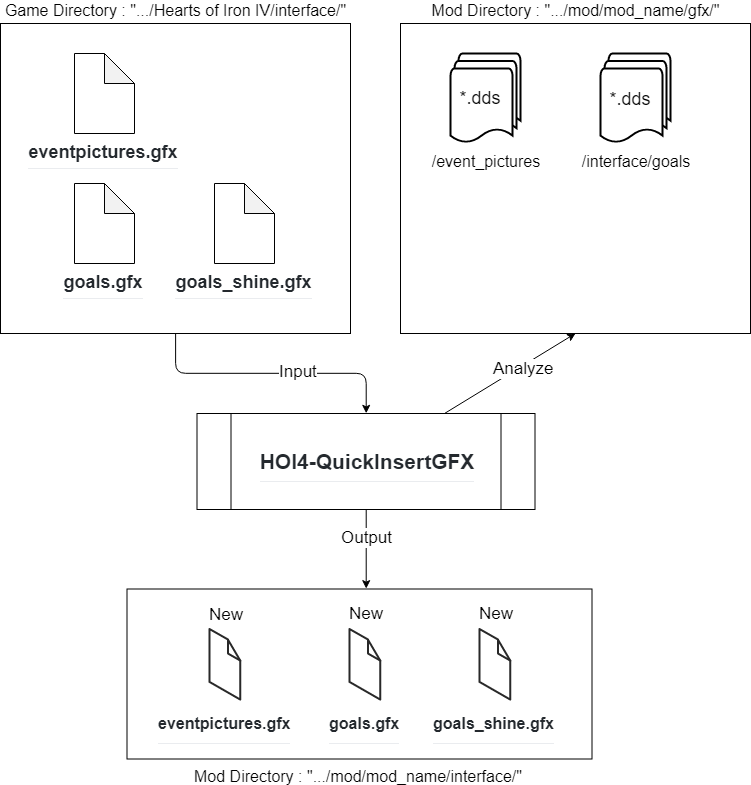
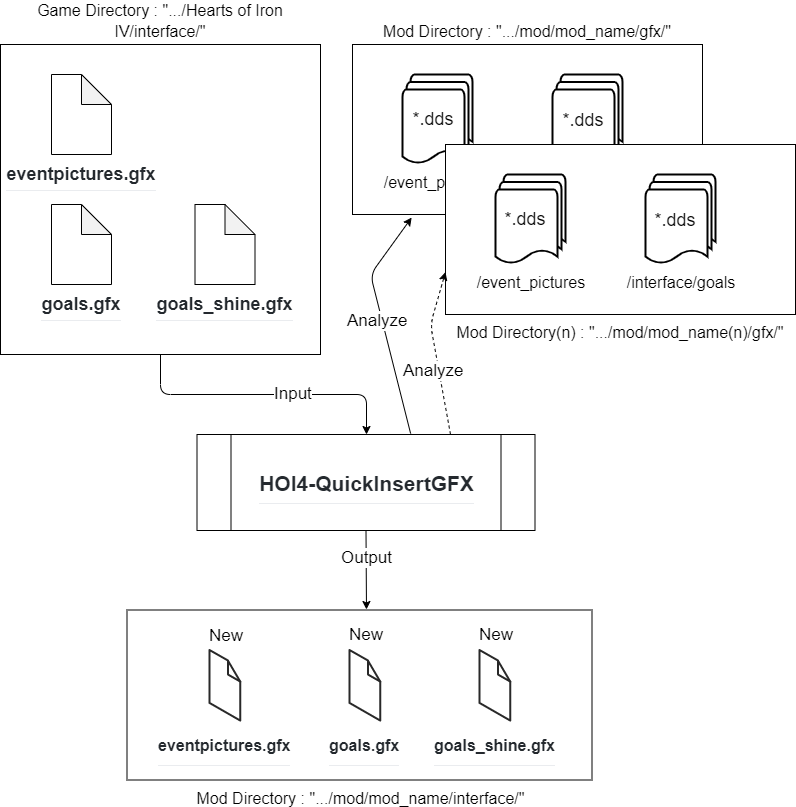
work on feature 1.1.0

diff --git a/README.md b/README.md
@@ -32,12 +32,22 @@ This program was created to work with [FocusTreeAndEventManager](https://github.
 ## How to use
 | --- | Description |
 | --- | --- |
-| <img src="images/screenshot01.png"> | 1. Click to set game directory <br /> e.g. "C:\steamapps\common\Hearts of Iron IV" <br /><br />  2. Click to set mod directory <br /> e.g. "C:\steamapps\common\Hearts of Iron IV\mod\mod_name" <br /><br /> 3. Click Export to create new *.gfx files in mod's interface directory. <br /> |
+| <img src="images/screenshot01.png"> | 1. Click to set game directory (Input) <br /> e.g. "C:\steamapps\common\Hearts of Iron IV". <br /><br />  2. Click to set mod directory (Output) <br /> e.g. "C:\steamapps\common\Hearts of Iron IV\mod\mod_name". <br /><br /> 2.1. You can add more than one mod directory.(Option) <br /><br /> 3. Click Export to create new *.gfx files in mod's interface directory. <br /> |
 
 
-## How does it work
+## How it work
 <img src="images/HOI4-QuickInsertGFX-Concept.png">
 
+
+## Changelog
+v1.1.0
+- Add support images for Mod(s) option
+
+v1.0.1
+- Add Error Handling
+
+v1.0.0
+- Initial version
 
 ## Used libraries
 - ANTLR4 : A powerful parser generator. 
